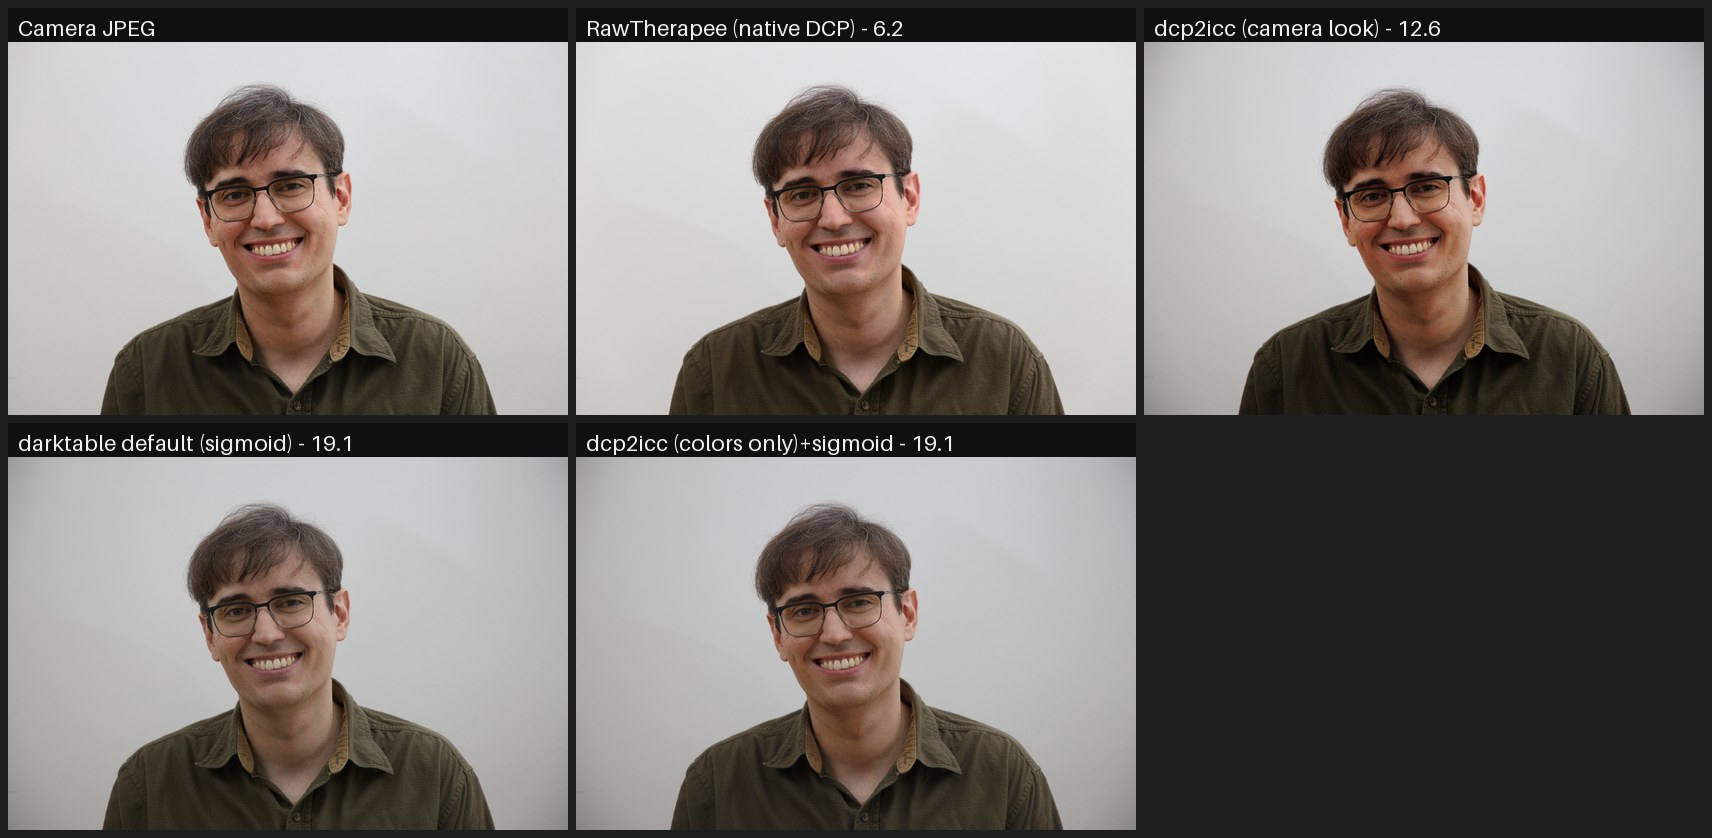
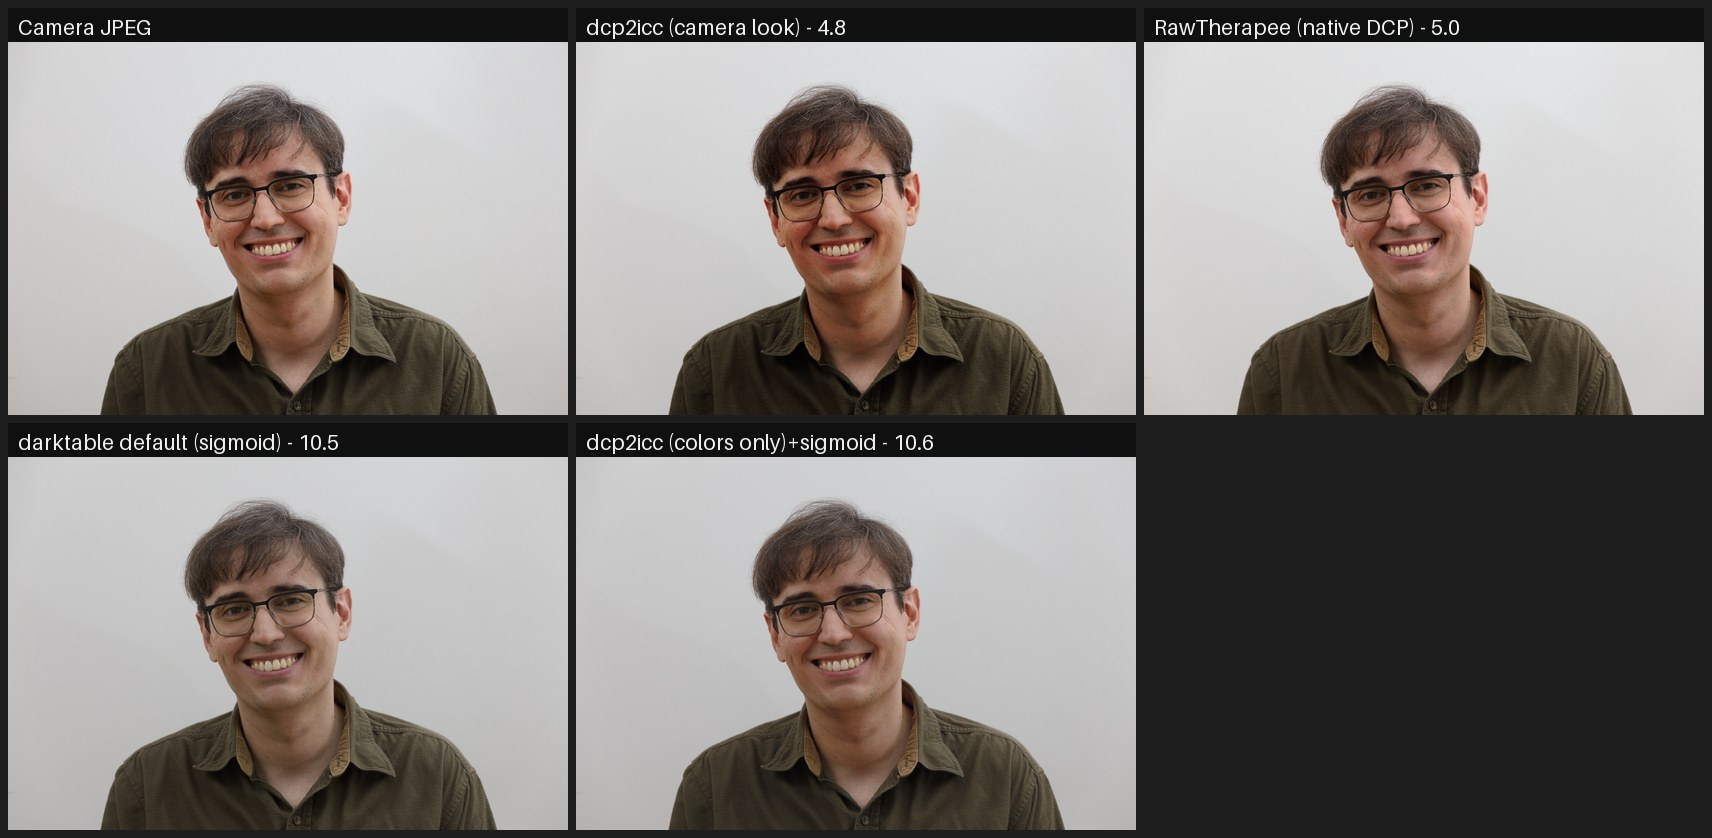
Score on the central 80%, enable lens correction, fix montage aspect
- metrics: compare only the central 80% of the frame, so corner
  lens-distortion/vignetting residues no longer dominate the score.
- dtxmp: enable darktable's lens correction module in every render
  (embedded-metadata method with per-image auto-detection, Lensfun
  fallback), matching the camera JPEG processing.
- montages: tiles now preserve the image's aspect ratio (portrait shots
  were squashed into landscape tiles); the sweep's mixed-orientation
  montage letterboxes instead; label font scales down on narrow tiles.
- Regenerate the Canon EOS RP comparison results with all of the above:
  with vignetting corrected and borders excluded, "camera look" now beats
  even RawTherapee on two of the four images.

diff --git a/testing/dtxmp.py b/testing/dtxmp.py
@@ -60,6 +60,30 @@ def _sigmoid_presets():
     }
 
 
+LENS_VERSION = 10
+
+
+def _lens_params() -> str:
+    """dt_iop_lens_params_t v10 (darktable 5.4 src/iop/lens.cc) requesting
+    the "embedded metadata" method with all corrections. has_been_set=FALSE
+    makes darktable replace everything else with the per-image auto-detected
+    defaults (and fall back to Lensfun when no embedded data exists), so
+    this one blob works for any camera."""
+    return _enc(struct.pack('<iii', 0, 7, 0)     # method=embedded, ALL, correct
+                + struct.pack('<5f', 1.0, 0.0, 0.0, 0.0, 0.0)
+                + struct.pack('<i', 1)           # target_geom rectilinear
+                + b'\0' * 256                    # camera[128] + lens[128]
+                + struct.pack('<i', 0)           # tca_override
+                + struct.pack('<2f', 1.0, 1.0)   # tca_r/b
+                + struct.pack('<4f', 1.0, 1.0, 1.0, 1.0)  # embedded fine-tunes
+                + struct.pack('<f', 1.0)         # scale_md_v1
+                + struct.pack('<i', 1)           # md_version 2
+                + struct.pack('<f', 1.0)         # scale_md
+                + struct.pack('<i', 0)           # has_been_set = FALSE
+                + struct.pack('<3f', 0.0, 0.5, 0.5)  # manual vignette
+                + struct.pack('<2f', 0.0, 0.0))  # reserved
+
+
 AGX_PARAMS = (
[2 lines of base64/hex data omitted]
@@ -86,6 +110,7 @@ def _enc(raw: bytes) -> str:
 
 TONEMAPPERS['sigmoid'] = (SIGMOID_VERSION, sigmoid_params())
 SIGMOID_PRESETS = _sigmoid_presets()
+LENS_PARAMS = _lens_params()
 
 
 def colorin_file_params(icc_path: str) -> str:
@@ -132,6 +157,8 @@ def make_xmp(raw_name: str, out_path: str, icc_path: str | None,
         ('channelmixerrgb', 0, 3, CHMIX_PARAMS),
         (tonemapper_op, 1 if tonemapper else 0, tm_ver, tm_params),
         ('exposure', 1, 7, exposure_params(exposure_ev)),
+        # lens correction like the camera JPEG (embedded metadata / Lensfun)
+        ('lens', 1, LENS_VERSION, LENS_PARAMS),
     ]
     items = '\n'.join(_entry(i, op, en, ver, p)
                       for i, (op, en, ver, p) in enumerate(ops))

diff --git a/testing/sweep.py b/testing/sweep.py
@@ -25,7 +25,7 @@ from pathlib import Path
 
 sys.path.insert(0, str(Path(__file__).resolve().parent))
 from compare import (METRIC, build_profiles, labeled, load_rgb,      # noqa: E402
-                     montage, run_darktable)
+                     load_rgb_fit, metrics, montage, run_darktable)
 from suite import check_license, find_pairs                          # noqa: E402
 import dtxmp                                                         # noqa: E402
 
@@ -97,7 +97,7 @@ def main():
 
     results = {}         # label -> {stem: mean}
     for raw, jpeg in pairs:
-        ref = np.asarray(load_rgb(jpeg, METRIC)).astype(float)
+        ref = load_rgb(jpeg, METRIC)
         for label, blob in candidates:
             stem = (raw.stem + '_' + label).translate(
                 str.maketrans(' .,:', '____'))
@@ -107,8 +107,7 @@ def main():
                            tonemapper_op='sigmoid',
                            tonemapper_params=(dtxmp.SIGMOID_VERSION, blob))
             run_darktable(raw, xmp, png, cfg)
-            img = np.asarray(load_rgb(png, METRIC)).astype(float)
-            m = float(np.abs(img - ref).mean())
+            m = float(metrics(load_rgb(png, METRIC), ref)[0])
             results.setdefault(label, {})[raw.stem] = m
             print(f'{raw.stem}  {label}: {m:.2f}', flush=True)
             if not a.keep:      # renders are large; drop them immediately
@@ -130,9 +129,10 @@ def main():
                        tonemapper_op='sigmoid',
                        tonemapper_params=(dtxmp.SIGMOID_VERSION, best_blob))
         run_darktable(raw, xmp, png, cfg)
-        tiles.append(labeled(load_rgb(jpeg, (560, 373)),
+        # letterboxed: images in the folder may mix orientations
+        tiles.append(labeled(load_rgb_fit(jpeg),
                              f'{raw.stem} - Camera JPEG'))
-        tiles.append(labeled(load_rgb(png, (560, 373)),
+        tiles.append(labeled(load_rgb_fit(png),
                              f'{best_label} - {best_per[raw.stem]:.1f}'))
         if not a.keep:
             png.unlink(missing_ok=True)

diff --git a/testing/compare.py b/testing/compare.py
@@ -83,9 +83,32 @@ def load_rgb(path, size):
     return im.resize(size, Image.LANCZOS)
 
 
+def tile_size(path, long_side=560):
+    """Montage tile size for this image, preserving its aspect ratio."""
+    with Image.open(path) as im:
+        w, h = ImageOps.exif_transpose(im).size
+    s = long_side / max(w, h)
+    return (max(1, round(w * s)), max(1, round(h * s)))
+
+
+def load_rgb_fit(path, box=(560, 420), bg=(30, 30, 30)):
+    """Load into a fixed box preserving aspect ratio (letterboxed) — for
+    montages that mix landscape and portrait images."""
+    im = ImageOps.exif_transpose(Image.open(path)).convert('RGB')
+    return ImageOps.pad(im, box, Image.LANCZOS, color=bg)
+
+
+def central_crop(a, frac=0.8):
+    """Central frac x frac area of an image array — the metric ignores the
+    frame borders, where lens distortion/vignetting differences dominate."""
+    h, w = a.shape[:2]
+    dy, dx = round(h * (1 - frac) / 2), round(w * (1 - frac) / 2)
+    return a[dy:h - dy, dx:w - dx]
+
+
 def metrics(img, ref):
-    a = np.asarray(img).astype(float)
-    b = np.asarray(ref).astype(float)
+    a = central_crop(np.asarray(img).astype(float))
+    b = central_crop(np.asarray(ref).astype(float))
     d = np.abs(a - b)
     return d.mean(), np.percentile(d, 95)
 
@@ -190,8 +213,10 @@ def compare_one(raw, jpeg, dcp_path, outdir, tonemapper='sigmoid', extras=(),
     (out / 'metrics.md').write_text(report + '\n')
 
     # montage sorted by similarity: camera JPEG first, then best match first
-    tiles = [labeled(load_rgb(jpeg, (560, 373)), 'Camera JPEG')]
-    tiles += [labeled(load_rgb(p, (560, 373)), f'{n} - {m:.1f}')
+    ts = tile_size(jpeg)
+    fs = max(13, min(22, ts[0] // 26))   # narrow portrait tiles: smaller font
+    tiles = [labeled(load_rgb(jpeg, ts), 'Camera JPEG', fontsize=fs)]
+    tiles += [labeled(load_rgb(p, ts), f'{n} - {m:.1f}', fontsize=fs)
               for n, p, m, _ in scored]
     montage(tiles, cols=3).save(out / 'comparison-full.jpg', quality=88)
     if cleanup:

diff --git a/testing/Canon EOS RP/comparisons/report.md b/testing/Canon EOS RP/comparisons/report.md
@@ -6,19 +6,19 @@ DCP: `Canon EOS RP Camera Standard.dcp` — 4 image(s), tone mapper: sigmoid. Me
 
 | Rendering | mean diff | p95 | images |
 |---|---|---|---|
-| RawTherapee (native DCP) | 10.9 | 27 | 4 |
-| dcp2icc (camera look) | 17.6 | 48 | 4 |
-| darktable default (sigmoid) | 18.9 | 46 | 4 |
-| dcp2icc (colors only)+sigmoid | 19.6 | 46 | 4 |
+| RawTherapee (native DCP) | 9.1 | 24 | 4 |
+| dcp2icc (camera look) | 9.9 | 27 | 4 |
+| darktable default (sigmoid) | 11.0 | 24 | 4 |
+| dcp2icc (colors only)+sigmoid | 12.3 | 27 | 4 |
 
 ## IMG_8736
 
 | Rendering | mean diff | p95 |
 |---|---|---|
-| RawTherapee (native DCP) | 13.2 | 35 |
-| dcp2icc (camera look) | 17.4 | 50 |
-| dcp2icc (colors only)+sigmoid | 18.9 | 46 |
-| darktable default (sigmoid) | 19.4 | 46 |
+| dcp2icc (camera look) | 9.3 | 35 |
+| RawTherapee (native DCP) | 12.1 | 37 |
+| dcp2icc (colors only)+sigmoid | 12.6 | 32 |
+| darktable default (sigmoid) | 12.8 | 32 |
 
 ![IMG_8736](IMG_8736/comparison-full.jpg)
 
@@ -26,10 +26,10 @@ DCP: `Canon EOS RP Camera Standard.dcp` — 4 image(s), tone mapper: sigmoid. Me
 
 | Rendering | mean diff | p95 |
 |---|---|---|
-| RawTherapee (native DCP) | 9.2 | 24 |
-| darktable default (sigmoid) | 16.2 | 57 |
-| dcp2icc (colors only)+sigmoid | 16.6 | 56 |
-| dcp2icc (camera look) | 17.0 | 60 |
+| RawTherapee (native DCP) | 7.1 | 18 |
+| darktable default (sigmoid) | 10.3 | 23 |
+| dcp2icc (colors only)+sigmoid | 11.8 | 29 |
+| dcp2icc (camera look) | 11.9 | 29 |
 
 ![IMG_8919](IMG_8919/comparison-full.jpg)
 
@@ -37,10 +37,10 @@ DCP: `Canon EOS RP Camera Standard.dcp` — 4 image(s), tone mapper: sigmoid. Me
 
 | Rendering | mean diff | p95 |
 |---|---|---|
-| RawTherapee (native DCP) | 15.0 | 36 |
-| darktable default (sigmoid) | 20.8 | 47 |
-| dcp2icc (camera look) | 23.5 | 50 |
-| dcp2icc (colors only)+sigmoid | 23.9 | 47 |
+| darktable default (sigmoid) | 10.3 | 26 |
+| RawTherapee (native DCP) | 12.4 | 30 |
+| dcp2icc (camera look) | 13.5 | 28 |
+| dcp2icc (colors only)+sigmoid | 14.1 | 32 |
 
 ![IMG_9029](IMG_9029/comparison-full.jpg)
 
@@ -48,9 +48,9 @@ DCP: `Canon EOS RP Camera Standard.dcp` — 4 image(s), tone mapper: sigmoid. Me
 
 | Rendering | mean diff | p95 |
 |---|---|---|
-| RawTherapee (native DCP) | 6.2 | 13 |
-| dcp2icc (camera look) | 12.6 | 30 |
-| darktable default (sigmoid) | 19.1 | 34 |
-| dcp2icc (colors only)+sigmoid | 19.1 | 34 |
+| dcp2icc (camera look) | 4.8 | 15 |
+| RawTherapee (native DCP) | 5.0 | 9 |
+| darktable default (sigmoid) | 10.5 | 16 |
+| dcp2icc (colors only)+sigmoid | 10.6 | 16 |
 
 ![IMG_9399](IMG_9399/comparison-full.jpg)

diff --git a/testing/README.md b/testing/README.md
@@ -133,7 +133,9 @@ image — a few seconds each. `--no-presets` skips the presets; use a finer
 Outputs in `results/`:
 
 - `metrics.md` — mean absolute pixel difference (0–255) and p95 against the
-  JPEG for every rendering, best first
+  JPEG for every rendering, best first. The metric is computed on the
+  **central 80 %** of the frame, so residual corner differences in lens
+  distortion/vignetting don't dominate the score
 - `comparison-full.jpg` — labeled side-by-side montage, sorted by
   similarity: camera JPEG first, then every rendering best-first with its
   score in the label (this is the image used in the top-level README)
@@ -187,6 +189,9 @@ ceiling, and "camera look" is the closest a profile gets inside darktable.
   (`--conf plugins/darkroom/chromatic-adaptation=legacy` + color calibration
   disabled in the generated XMPs) because DCP-derived profiles expect fully
   white-balanced camera RGB.
+- darktable's **lens correction** module is enabled in every render
+  (embedded-metadata method, falling back to Lensfun), matching the
+  correction the camera applies to its JPEGs.
 - `--tonemapper` selects the darktable tone mapper used for the
   "colors only" and "darktable default" renders: `sigmoid` (upstream
   darktable, the default, params = darktable 5.4 module defaults) or `agx`

diff --git a/testing/Canon EOS RP/comparisons/IMG_9029/metrics.md b/testing/Canon EOS RP/comparisons/IMG_9029/metrics.md
@@ -1,6 +1,6 @@
 | Rendering | mean diff vs JPEG | p95 |
 |---|---|---|
-| RawTherapee (native DCP) | 15.0 | 36 |
-| darktable default (sigmoid) | 20.8 | 47 |
-| dcp2icc (camera look) | 23.5 | 50 |
-| dcp2icc (colors only)+sigmoid | 23.9 | 47 |
+| darktable default (sigmoid) | 10.3 | 26 |
+| RawTherapee (native DCP) | 12.4 | 30 |
+| dcp2icc (camera look) | 13.5 | 28 |
+| dcp2icc (colors only)+sigmoid | 14.1 | 32 |

diff --git a/testing/Canon EOS RP/comparisons/IMG_8736/metrics.md b/testing/Canon EOS RP/comparisons/IMG_8736/metrics.md
@@ -1,6 +1,6 @@
 | Rendering | mean diff vs JPEG | p95 |
 |---|---|---|
-| RawTherapee (native DCP) | 13.2 | 35 |
-| dcp2icc (camera look) | 17.4 | 50 |
-| dcp2icc (colors only)+sigmoid | 18.9 | 46 |
-| darktable default (sigmoid) | 19.4 | 46 |
+| dcp2icc (camera look) | 9.3 | 35 |
+| RawTherapee (native DCP) | 12.1 | 37 |
+| dcp2icc (colors only)+sigmoid | 12.6 | 32 |
+| darktable default (sigmoid) | 12.8 | 32 |

diff --git a/testing/Canon EOS RP/comparisons/IMG_8919/metrics.md b/testing/Canon EOS RP/comparisons/IMG_8919/metrics.md
@@ -1,6 +1,6 @@
 | Rendering | mean diff vs JPEG | p95 |
 |---|---|---|
-| RawTherapee (native DCP) | 9.2 | 24 |
-| darktable default (sigmoid) | 16.2 | 57 |
-| dcp2icc (colors only)+sigmoid | 16.6 | 56 |
-| dcp2icc (camera look) | 17.0 | 60 |
+| RawTherapee (native DCP) | 7.1 | 18 |
+| darktable default (sigmoid) | 10.3 | 23 |
+| dcp2icc (colors only)+sigmoid | 11.8 | 29 |
+| dcp2icc (camera look) | 11.9 | 29 |

diff --git a/testing/Canon EOS RP/comparisons/IMG_9399/metrics.md b/testing/Canon EOS RP/comparisons/IMG_9399/metrics.md
@@ -1,6 +1,6 @@
 | Rendering | mean diff vs JPEG | p95 |
 |---|---|---|
-| RawTherapee (native DCP) | 6.2 | 13 |
-| dcp2icc (camera look) | 12.6 | 30 |
-| darktable default (sigmoid) | 19.1 | 34 |
-| dcp2icc (colors only)+sigmoid | 19.1 | 34 |
+| dcp2icc (camera look) | 4.8 | 15 |
+| RawTherapee (native DCP) | 5.0 | 9 |
+| darktable default (sigmoid) | 10.5 | 16 |
+| dcp2icc (colors only)+sigmoid | 10.6 | 16 |
